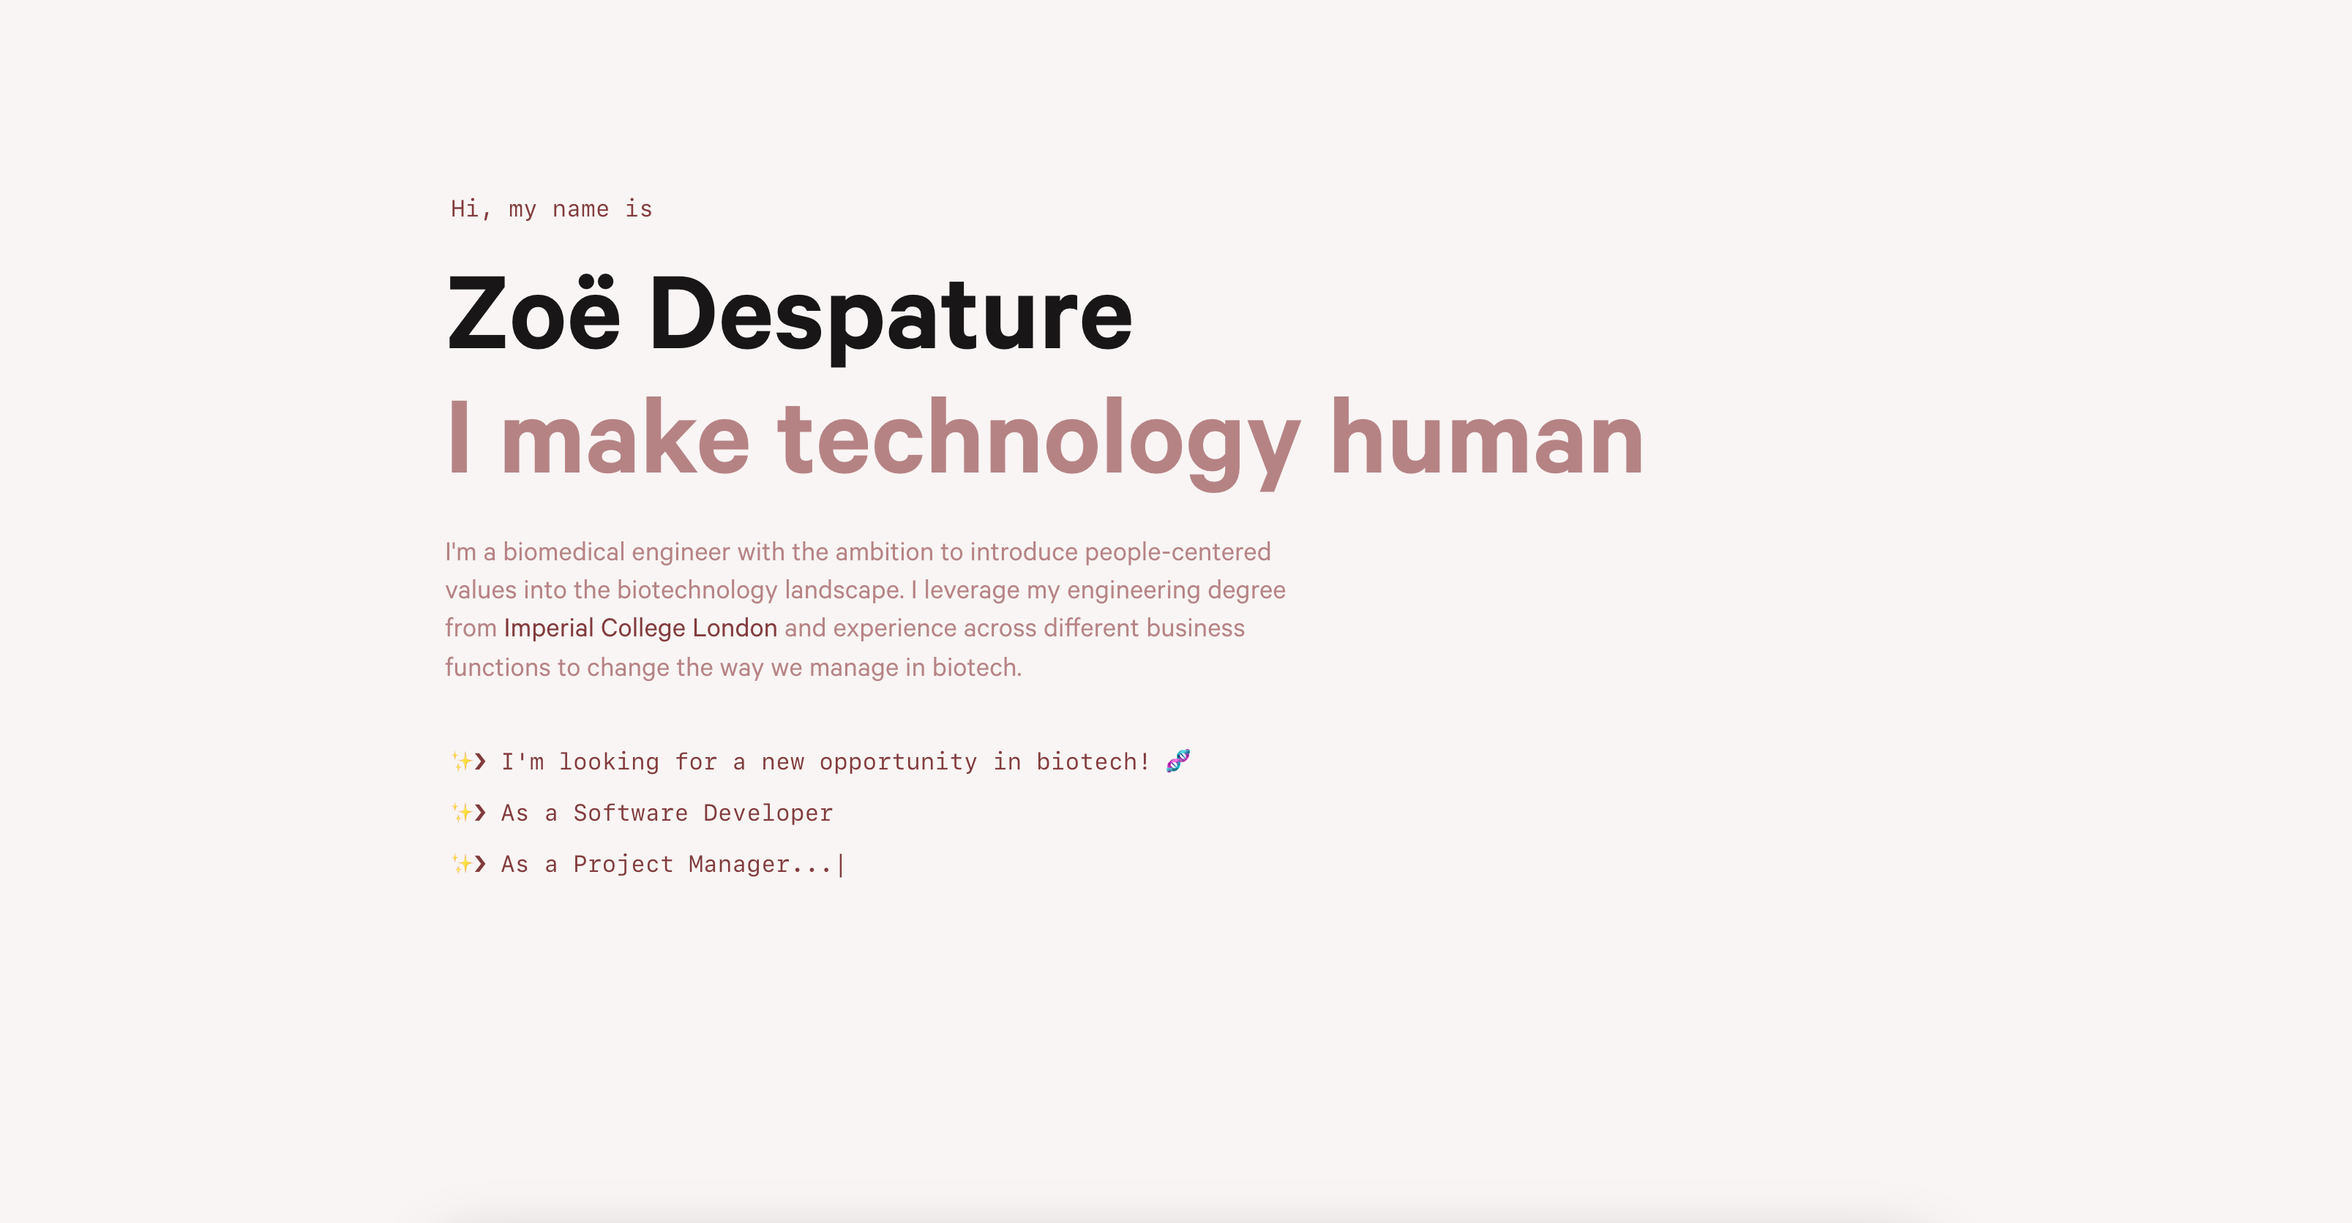
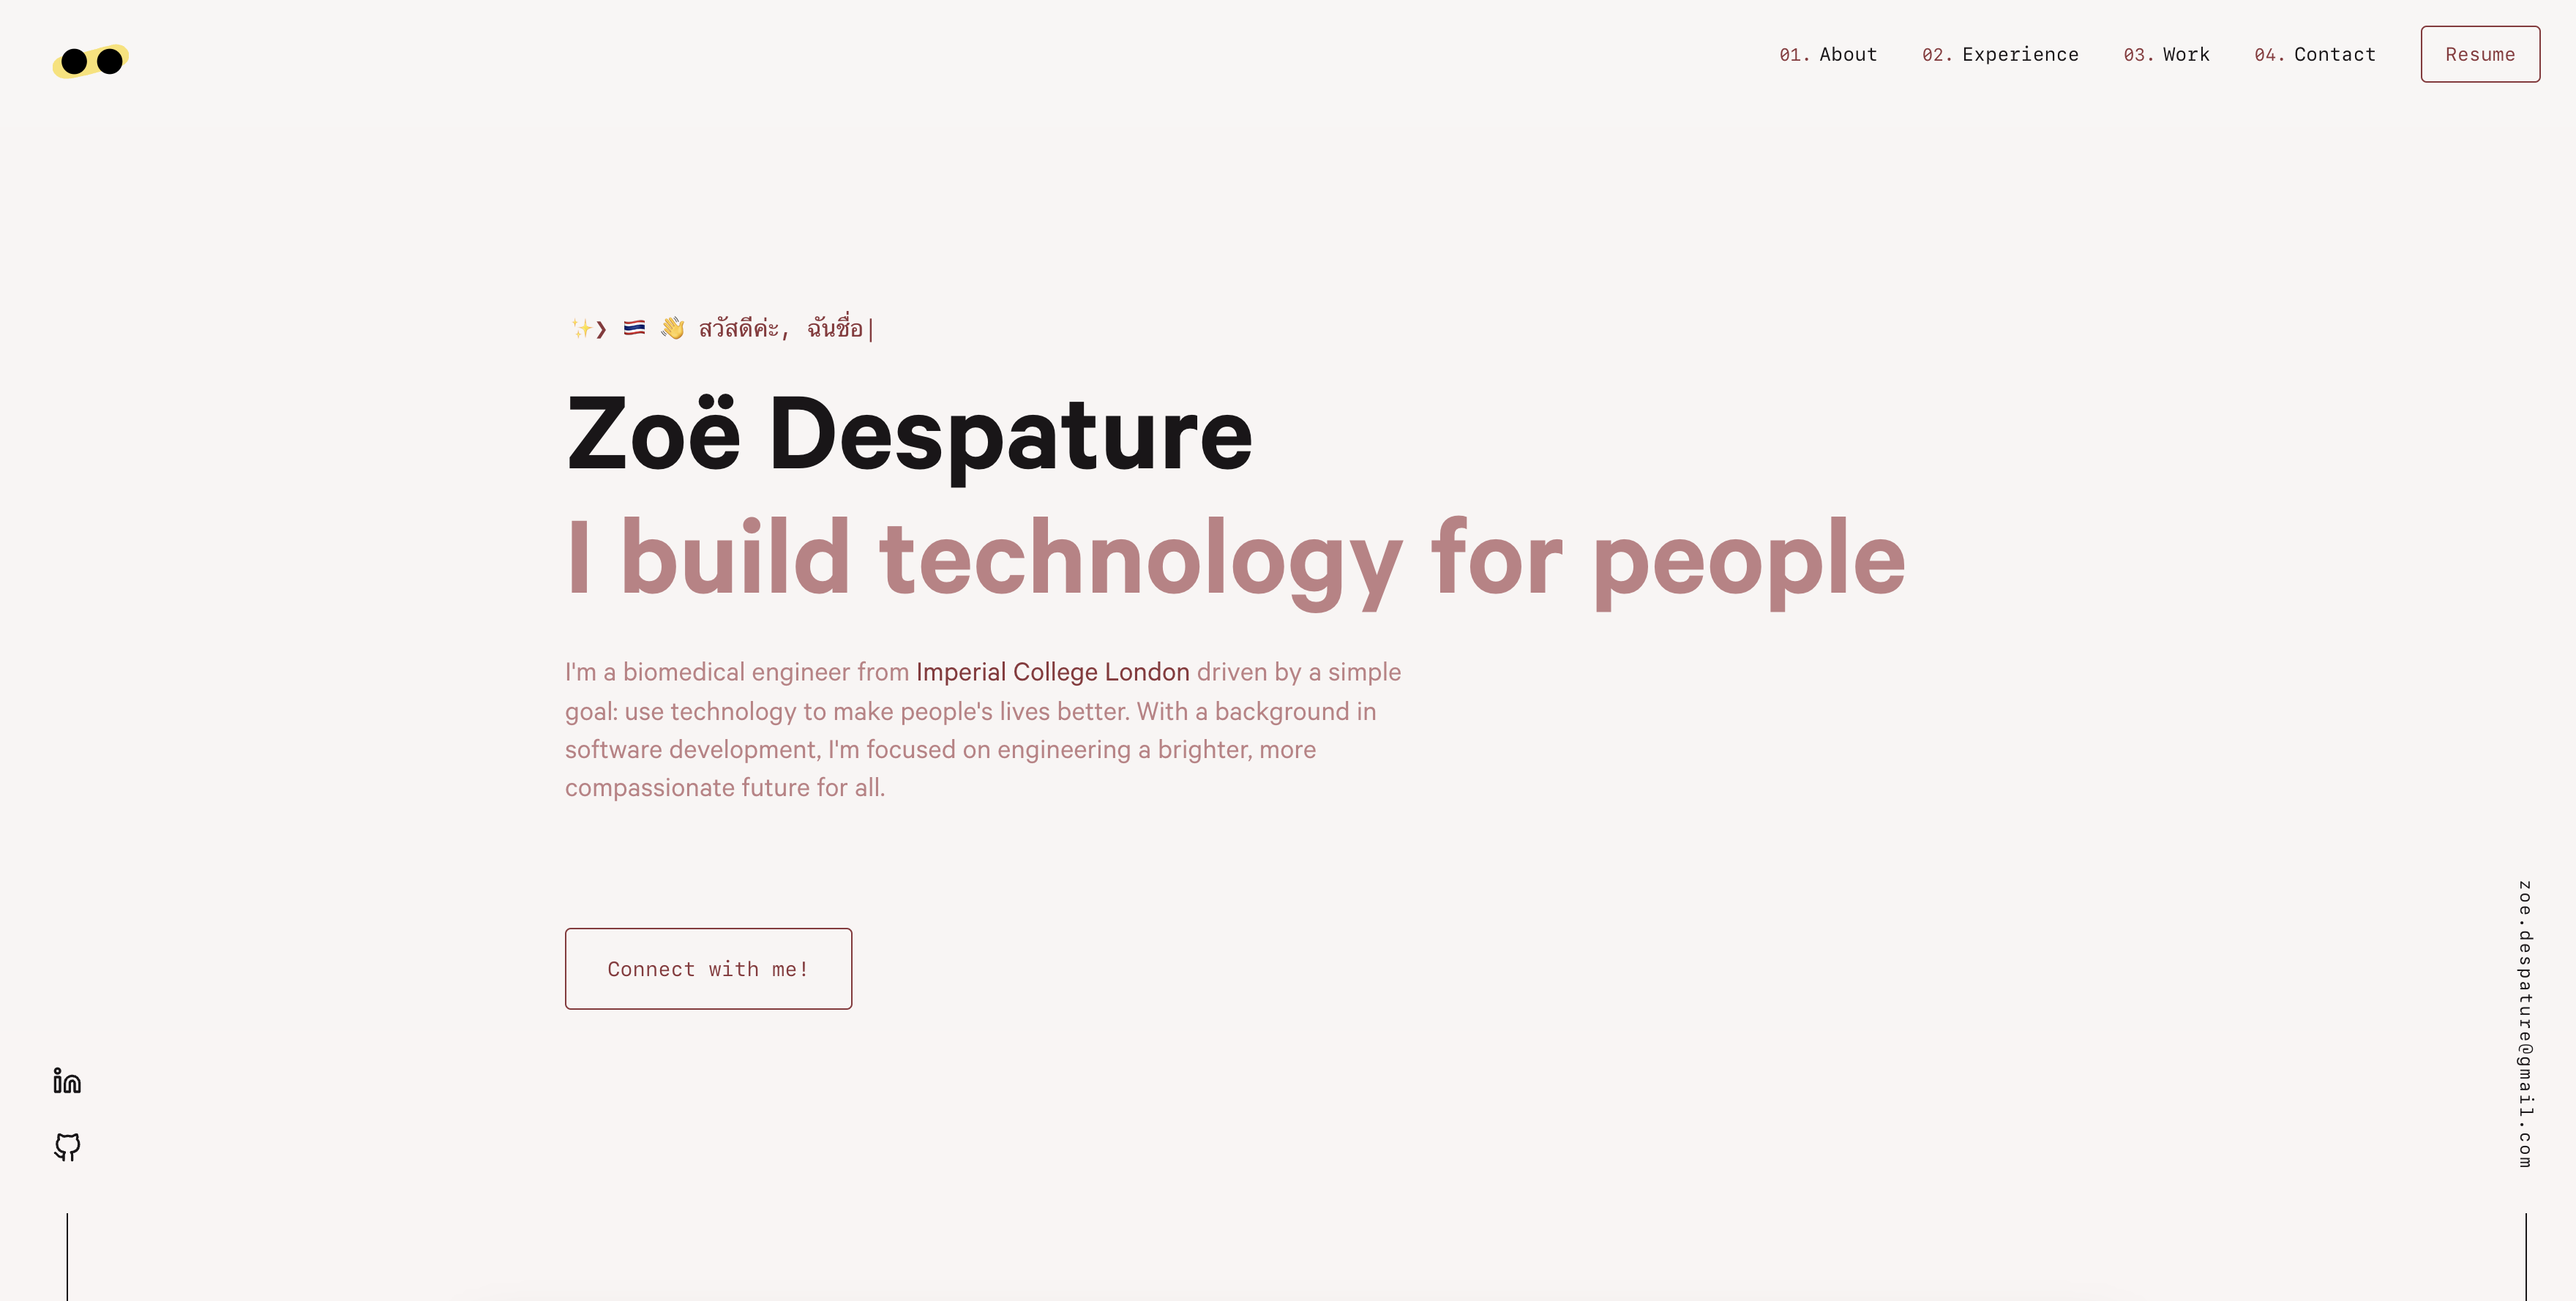
change demo

diff --git a/gatsby-config.js b/gatsby-config.js
@@ -4,7 +4,7 @@ module.exports = {
   siteMetadata: {
     title: 'Zoë Despature',
     description:
-      'Hi! My name is Zoë Despature, I\'m a biomedical engineer with the ambition to introduce people-centered values into the technology landscape. I leverage my engineering degree from Imperial College London and experience across different business functions to integrate diverse skill sets into the fabric of technological innovation.',
+      'Hi! My name is Zoë Despature, I\'m a biomedical engineer from Imperial College London driven by a simple goal: use technology to make people\'s lives better. With a background in software development, I\'m focused on engineering a brighter, more compassionate future for all.',
     siteUrl: 'https://zoedespature.com', // No trailing slash allowed!
     image: '/og.png', // Path to your image you placed in the 'static' folder
     twitterUsername: '@zoedespature',
